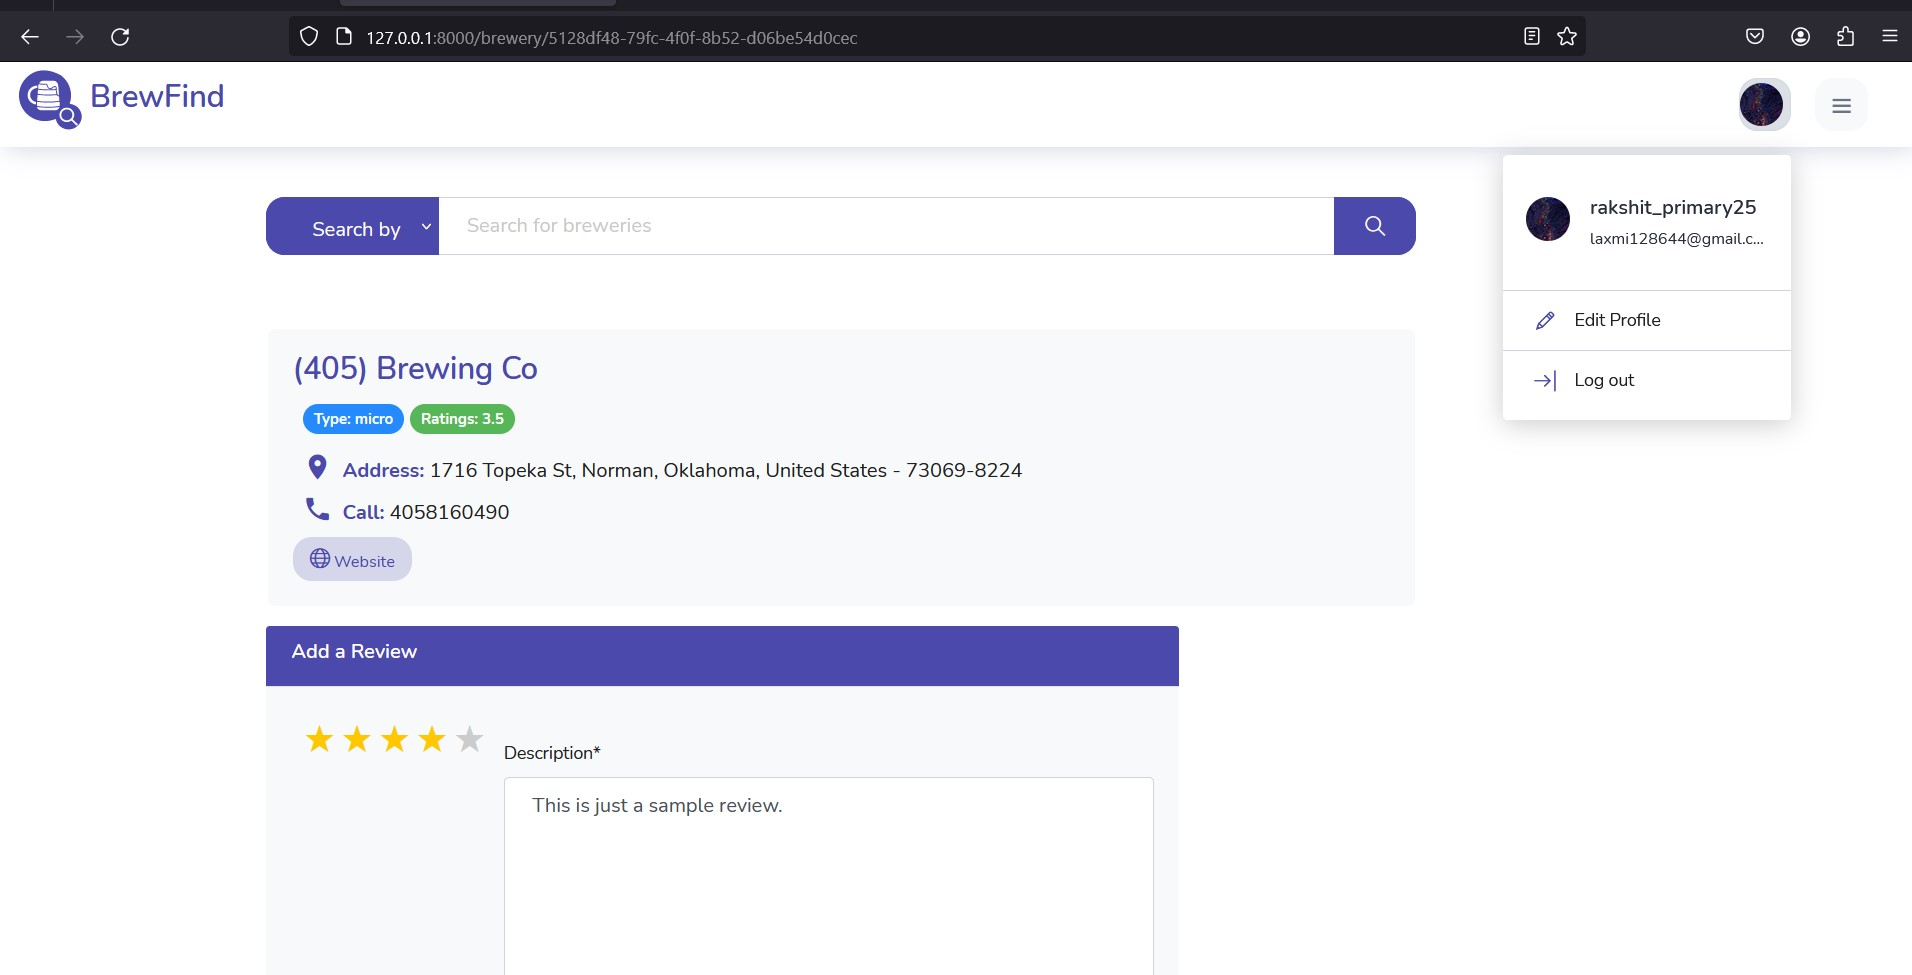
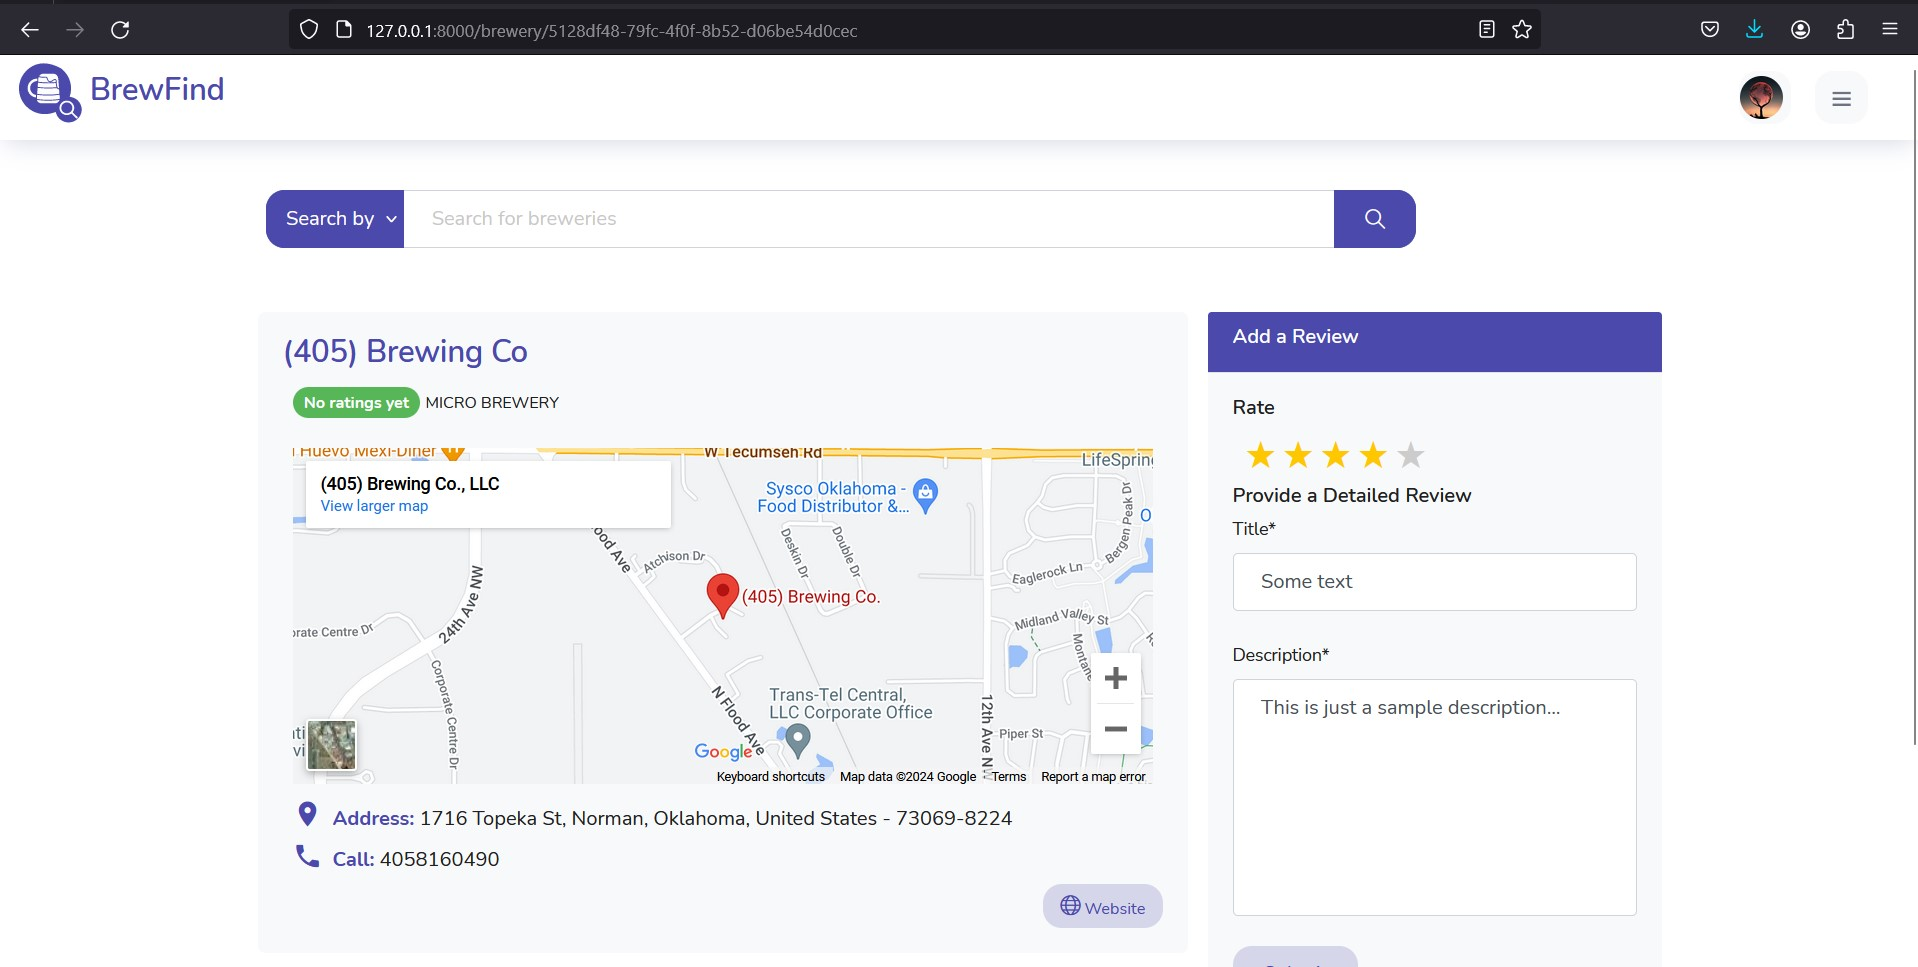
updated the interface
embedded google map

diff --git a/blog/templates/blog/brewery_details.html b/blog/templates/blog/brewery_details.html
@@ -48,14 +48,15 @@
     color: #c59b08;
 }
 
+  
 </style>
-{% if user.is_authenticated %}
+
 <div class="row">
     <div class="col-md-10 col-12">
         <form class="input-group" id="searchform" action="{% url 'search' %}" method="get">
             <div class="input-group-prepend">
-                <select class="btn btn-primary msize" id="mySelect" name="select_option">
-                    <option value="" selected disabled>Search by</option>
+                <select class="btn btn-primary msize" style="padding: 0 10px;" id="mySelect" name="select_option">
+                    <option value="search" selected>Search by</option>
                     <option value="city">City</option>
                     <option value="name">Name</option>
                     <option value="type">Type</option>
@@ -70,12 +71,24 @@
         </form>
     </div>
 </div>
-{% endif %}
+<br>
 
+{% if messages %} {% for message in messages %}
+<div class="row">
+<div class="col-md-8">
+<div class="alert  alert-{{ message.tags }} alert-dismissible fade show" role="alert">
+    <h5 class="alert-heading"> {{ message }} </h5>
+    <button type="button" class="close" data-dismiss="alert" aria-label="Close">
+        <span aria-hidden="true">&times;</span>
+    </button>			
+</div>
+</div>
+</div>
+{% endfor %} {% endif %}
 <br>
-<br>
+
     <div class="row">
-        <div class="col-md-10 col-12 p-3">
+        <div class="col-md-8 col-12 p-2">
         <div class="card bg-light">
             <div class="card-body">
                 {% if brewery_data == "Error" %}
@@ -86,16 +99,26 @@
                
                 <h3 class="text-primary">{{ brewery_data.name }}</h3>
                 <div class="p-2">
-                <label class="badge badge-info font-weight-bold">Type: {{ brewery_data.brewery_type }}</label>
-                <label class="badge badge-success font-weight-bold">Ratings: {{ rating|floatformat:1 }}</label>
+                {% if rating %}
+                <label style="font: size 0.8rem;" class="badge badge-success font-weight-bold">{{ rating|floatformat:1 }} <i style="font-size:0.8rem;vertical-align:middle;" class="mdi mdi-star"></i></label>
+                {% else %}
+                <label style="font-size:0.8rem;" class="badge badge-success font-weight-bold">No ratings yet</label>
+                 {% endif %}
+                 <small>{{ brewery_data.brewery_type|upper }} BREWERY</small>
                 </div>
+                
+                <iframe class="p-2" src="https://maps.google.com/maps?q={{ brewery_data.name }} {{ brewery_data.address_1 }}&output=embed" width="100%" height="285" frameborder="0" style="border:0" allowfullscreen></iframe>
+
                 <p><i class="micons text-primary mdi mdi-map-marker p-2" ></i><strong class="text-primary">Address:</strong> {{ brewery_data.address_1 }}, {{ brewery_data.city }}, {{ brewery_data.state_province }}, {{ brewery_data.country }} - {{ brewery_data.postal_code }}</p>
+                
                 {% if brewery_data.phone %}
                 <p><i class="micons text-primary mdi mdi-phone p-2" ></i><strong class="text-primary">Call:</strong> {{ brewery_data.phone }}</p> 
                 {% endif %}
+                <div class="d-flex justify-content-end">
                 {% if brewery_data.website_url %}
                 <a style="position: relative; z-index: 1;" href="{{ brewery_data.website_url }}" target="_blank"><button class="btn btn-inverse-primary btn-sm"><i class="ti-world" ></i> Website</button></a>
                 {% endif %}
+                </div>
 
                 {% endif %}
             </div>
@@ -107,15 +130,16 @@
         </div>
         </div>
 
-        {% if user.is_authenticated %}
-            <div class="col-md-8">
+        {% if user.is_authenticated and check %}
+            <div class="col-md-4 col-12 p-2">
                 <div class="card bg-light">
                     <div class="card-header bg-primary text-white"><h5>Add a Review</h5></div>
-                    
-                    <div class="card-body">                        
-                        <form class="forms-sample" method="POST">
-
+                    <div class="card-body">                    
+                        <form class="forms-sample" method="POST" action="{%url 'brewery' id=brewery_data.id%}">
                             {% csrf_token %}
+                            <div class="row">
+                            <div class="col-md-10">
+                                <h5>Rate</h5>
                             <div class="rate">
                                 <input type="radio" id="star5" name="rate" value="5" required>
                                 <label for="star5" title="text">5 stars</label>
@@ -128,16 +152,20 @@
                                 <input type="radio" id="star1" name="rate" value="1" />
                                 <label for="star1" title="text">1 star</label>
                               </div>
-                            <br>
-                            <fieldset class="form-group">
+                            </div>
+                            
+                            </div>
+                            <div class="row">
+                            <div class="col-md-12">
+                            <h5>Provide a Detailed Review</h5>
+                            <fieldset>
                               
                                 {{ form|crispy }}
-                              
-        
-        
                             </fieldset>
-                            <button type="submit" class="btn btn-inverse-primary btn-sm">Submit Review</button>
+                            <button type="submit" class="btn btn-inverse-primary">Submit</button>
                             <br>
+                            </div>
+                            </div>
                         </form>   
                             
                     </div>

diff --git a/blog/views.py b/blog/views.py
@@ -1,25 +1,22 @@
 import re
+from django.shortcuts import redirect
 from django.shortcuts import render, get_object_or_404
+from django.urls import reverse
+from django.http import Http404
 from django.utils.http import urlencode
+from django.contrib import messages
 from django.http import HttpResponse
 from django.contrib.auth.mixins import LoginRequiredMixin, UserPassesTestMixin
 from django.contrib.auth.models import User
 from django.views.generic import (
     ListView,
-    DetailView,
-    CreateView,
-    UpdateView,
-    DeleteView
 )
 import operator
 from django.urls import reverse_lazy
 from django.contrib.staticfiles.views import serve
 from django.http import HttpResponseRedirect
 from django.db.models import Q
-import qrcode
 from PIL import Image
-from io import BytesIO
-import base64
 from django.conf import settings
 import requests 
 from django.core.paginator import Paginator, EmptyPage, PageNotAnInteger
@@ -49,30 +46,40 @@ def brewery(request, id):
 
     except UserReview.DoesNotExist:
         average_review = "No reviews"
+    try:
+        user_review = get_object_or_404(UserReview, breweryId=id, userName=request.user.username)
+        check_field_value = user_review.check_field
+    except Http404:
+        check_field_value=True
+
+    
+
     if request.method == 'POST':
         form = UserReviewForm(request.POST)
         rate_query=request.POST.get('rate')
-    
         if form.is_valid():
             form.instance.breweryId = id
             form.instance.userName = request.user.username
             form.instance.rate = rate_query
+            form.instance.check_field = False
             form.save()
-            context = {'brewery_data' : brewery_data, 'form' : form, 'message': 'Review saved successfully!', 'rating': average_review} 
-            return render(request, 'blog/brewery_details.html', context)
+            messages.success(request, 'Your review has been added successfully!')
+            return redirect(reverse('brewery', args=[id]))
+
     else:
         form = UserReviewForm()
     context = {
         'brewery_data' : brewery_data,
         'form' : form,
-        'rating': average_review
+        'rating': average_review,
+        'check' : check_field_value
     } 
     
     return render(request, 'blog/brewery_details.html', context)
 
 
 def br(request):
-    url = "https://api.openbrewerydb.org/v1/breweries?per_page=100"
+    url = "https://api.openbrewerydb.org/v1/breweries?per_page=200"
     header = {
     "Content-Type":"application/json",
     }
@@ -122,16 +129,14 @@ def search(request):
     header = {
     "Content-Type":"application/json",
     }
-    if query_option==None or query_option=="":
-        query_option="name"
-    else: 
-        pass
-    if query_option=="name":
-        url = "https://api.openbrewerydb.org/v1/breweries?by_name="+uquery+"&per_page=100"
+    if query_option==None or query_option=="search":
+        url= "https://api.openbrewerydb.org/v1/breweries/search?query="+uquery+"&per_page=200"
+    elif query_option=="name":
+        url = "https://api.openbrewerydb.org/v1/breweries?by_name="+uquery+"&per_page=200"
     elif query_option=="city":
-        url = "https://api.openbrewerydb.org/v1/breweries?by_city="+uquery+"&per_page=100"
+        url = "https://api.openbrewerydb.org/v1/breweries?by_city="+uquery+"&per_page=200"
     elif query_option=="type":
-        url = "https://api.openbrewerydb.org/v1/breweries?by_type="+uquery+"&per_page=100"
+        url = "https://api.openbrewerydb.org/v1/breweries?by_type="+uquery+"&per_page=200"
     
     results = requests.get(url,headers=header)
     if results.status_code == 200:

diff --git a/blog/models.py b/blog/models.py
@@ -5,16 +5,28 @@ from django.urls import reverse
 from django.core.validators import FileExtensionValidator
 from django.core.exceptions import ValidationError
 import os
+from django.core.validators import MinLengthValidator
 
 
+def validate_min_length(value):
+    if len(value) < 5:
+        raise ValidationError('The title must be at least 5 characters long.')
+    
 class UserReview(models.Model):
     reviewId = models.AutoField(primary_key = True)
     breweryId = models.CharField(max_length=120)
-    userName = models.CharField(max_length=120)
-    description = models.TextField(max_length=500)
+    userName = models.CharField(max_length=150)
+    title = models.CharField(max_length=150, validators=[validate_min_length])
+    description = models.TextField(max_length=1000, validators=[
+            MinLengthValidator(50, 'The field must contain at least 50 characters')
+            ]
+        )
     rate = models.IntegerField(default=0)  
+    check_field = models.BooleanField(default=True)
     created_at = models.DateTimeField(auto_now_add=True)
+    class Meta:
+        unique_together = ('breweryId', 'userName')
 
     def __str__(self):
-        return str(self.userName) + str(self.created_at)
+        return str(self.userName) +"title: "+str(self.title)
         

diff --git a/blog/forms.py b/blog/forms.py
@@ -4,6 +4,6 @@ from .models import UserReview
 class UserReviewForm(forms.ModelForm):
     class Meta:
         model = UserReview
-        fields = ['description' ]
+        fields = ['title', 'description' ]
         #rate = forms.ChoiceField(choices=[(i, str(i)) for i in range(1, 6)], widget=forms.RadioSelect)
     
